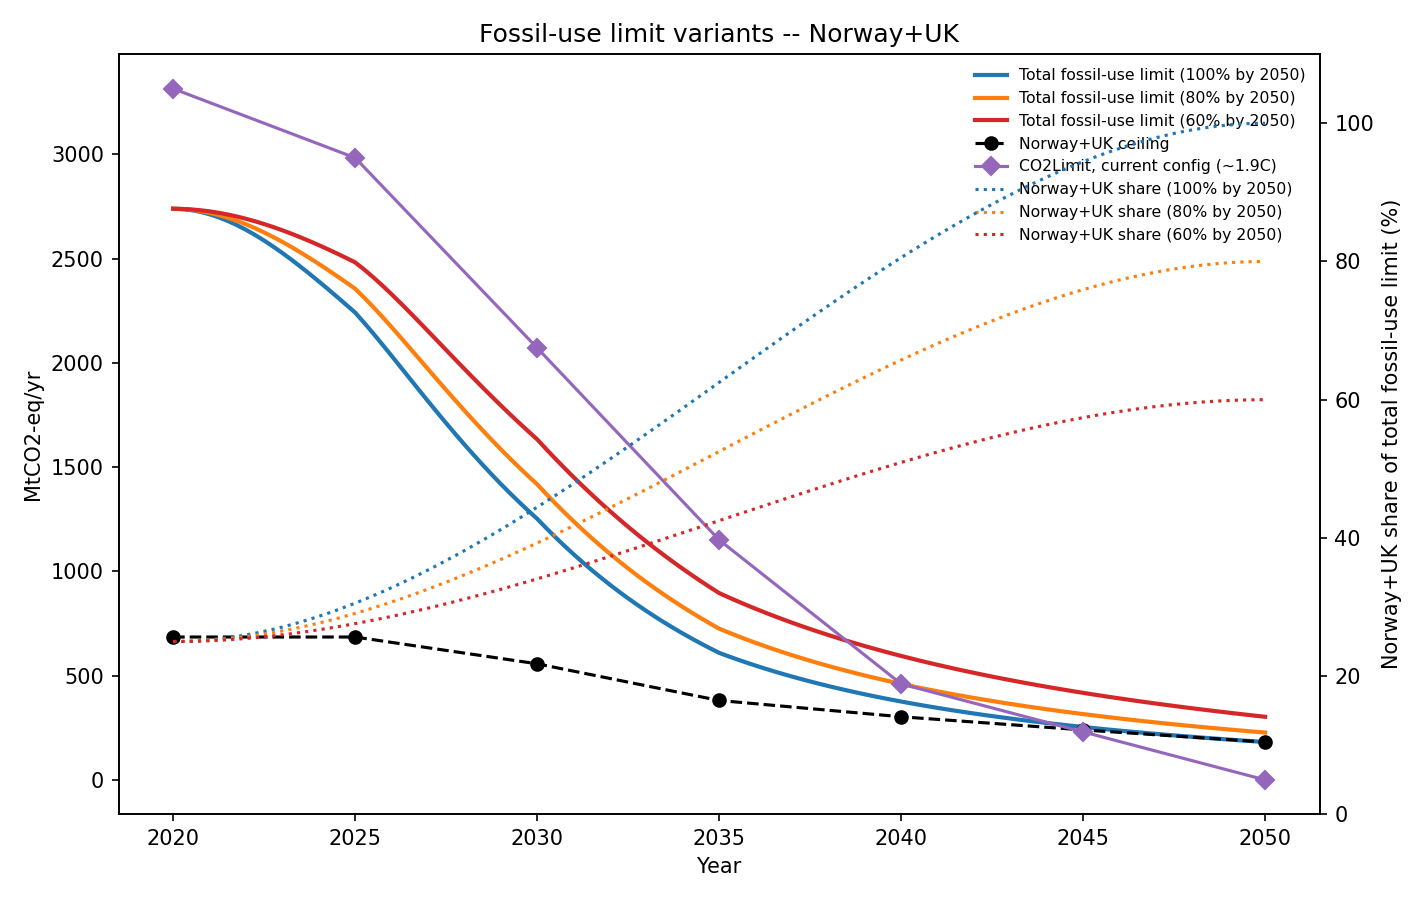
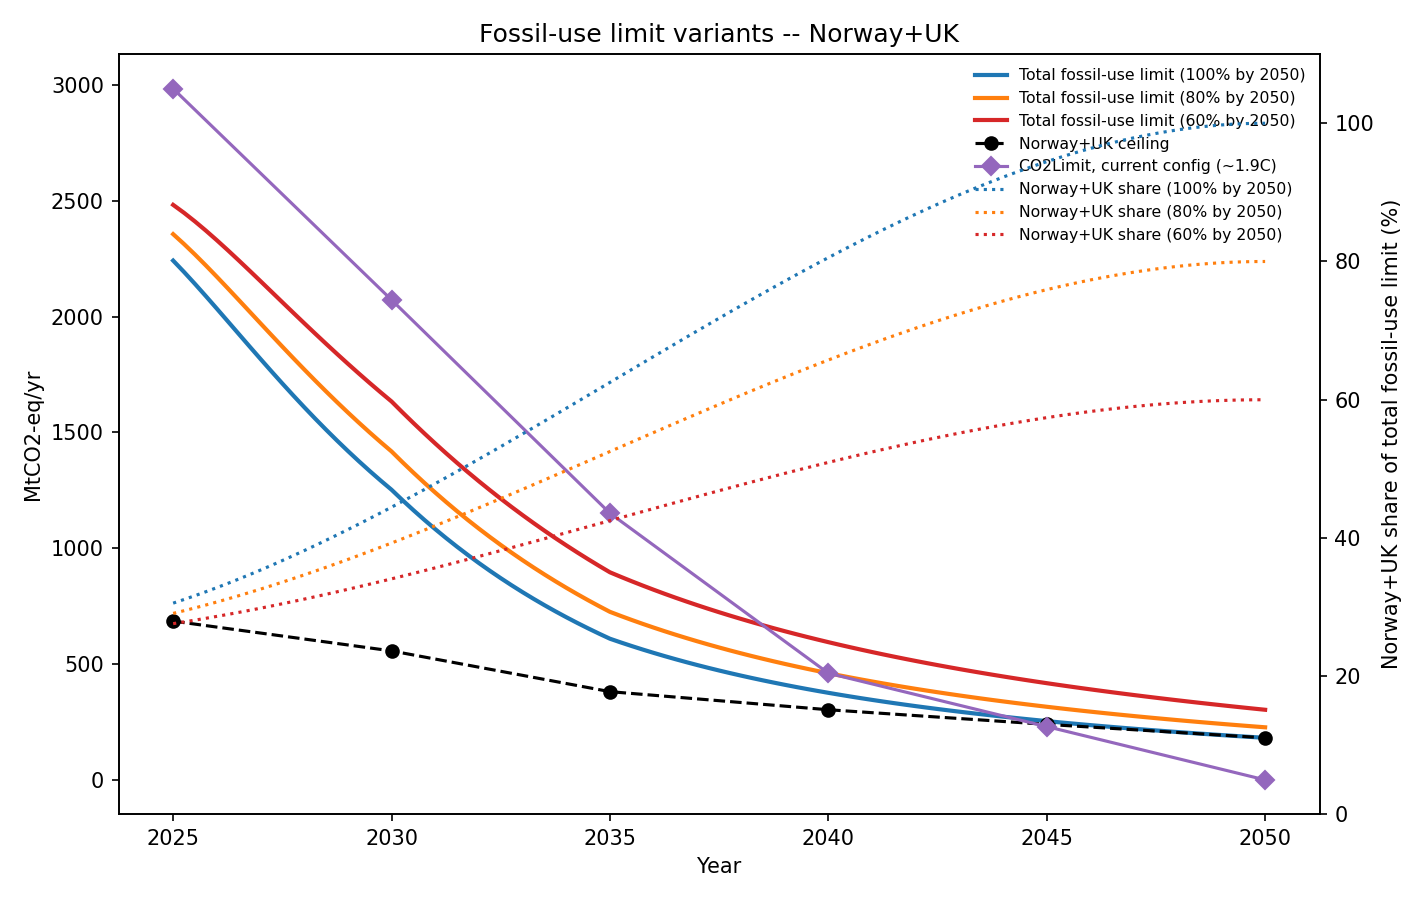
Drop 2020 from fossil-supply-security plots, start display at 2025
2020 stays as the internal share-curve anchor (ceiling_fn(2020) still
computes share_2020), but is no longer a displayed x-value: the security
curves, CO2Limit markers, and mix-breakdown bars now run 2025-2050 only,
consistent with Section 3.1's caveat that this config's 2020 CO2Limit
checkpoint isn't independently validated against an official target the
way 2030 is, and that these are the years the myopic runs actually solve.

Claude-Session: https://claude.ai/code/session_01KkHwmFFdgK5T1XFbFHA5SA

diff --git a/text_docs/scripts/build_fossil_supply_security.py b/text_docs/scripts/build_fossil_supply_security.py
@@ -26,8 +26,14 @@ import matplotlib.pyplot as plt
 
 out_dir = sys.argv[1] if len(sys.argv) > 1 else "."
 
-YEARS = [2020, 2025, 2030, 2035, 2040, 2045, 2050]
-years_fine = np.linspace(2020, 2050, 121)
+# 2020 is still used internally as the share-curve's anchor point (real
+# Eurostat actual, see ANCHOR_2020_MTCO2 below) -- Section 3.1's caveat
+# means it's not a great *displayed* reference year (this model's own
+# CO2Limit(2020) checkpoint isn't independently validated the way 2030 is),
+# so plots/tables now start at 2025, the first year these myopic runs
+# actually solve.
+YEARS = [2025, 2030, 2035, 2040, 2045, 2050]
+years_fine = np.linspace(2025, 2050, 101)
 
 # ---------------------------------------------------------------------------
 # Historical anchor: GENUINE 2020 actual, Eurostat Complete Energy Balances
@@ -134,7 +140,7 @@ def build_variant(name, ceiling_fn, mix_components, out_prefix):
     """ceiling_fn(year) -> MtCO2-eq; mix_components: dict label -> fn(year)."""
     ceiling = {y: ceiling_fn(y) for y in YEARS}
     anchor = ANCHOR_2020_MTCO2
-    share_2020 = ceiling[2020] / anchor
+    share_2020 = ceiling_fn(2020) / anchor  # still the curve's anchor point, just not displayed
 
     def share_curve(year, target):
         x = (year - 2020) / 30
@@ -155,7 +161,8 @@ def build_variant(name, ceiling_fn, mix_components, out_prefix):
     ceiling_years = sorted(ceiling)
     ax1.plot(ceiling_years, [ceiling[y] for y in ceiling_years], "o--", color="black", lw=1.5,
               label=f"{name} ceiling")
-    ax1.plot(list(CO2LIMIT_1P9C), list(CO2LIMIT_1P9C.values()), "D-", color="tab:purple",
+    co2limit_shown = {y: v for y, v in CO2LIMIT_1P9C.items() if y in YEARS}
+    ax1.plot(list(co2limit_shown), list(co2limit_shown.values()), "D-", color="tab:purple",
               lw=1.5, label="CO2Limit, current config (~1.9C)")
     ax1.set_xlabel("Year")
     ax1.set_ylabel("MtCO2-eq/yr")
@@ -170,7 +177,7 @@ def build_variant(name, ceiling_fn, mix_components, out_prefix):
     plt.close(fig)
 
     # --- 2050 mix breakdown ---
-    mix_years = [2020, 2050]
+    mix_years = [2025, 2050]
     colors = plt.get_cmap("tab10").colors
     fig, ax = plt.subplots(figsize=(7, 5))
     bottoms = np.zeros(len(mix_years))
@@ -185,12 +192,12 @@ def build_variant(name, ceiling_fn, mix_components, out_prefix):
     for xi in range(len(mix_years)):
         ax.text(xi, bottoms[xi] + 15, f"total: {bottoms[xi]:.0f}", ha="center", fontsize=9)
     ax.axhline(ANCHOR_2020_MTCO2, color="red", ls="--", lw=1)
-    ax.text(len(mix_years) - 0.3, ANCHOR_2020_MTCO2 + 15,
+    ax.text(len(mix_years) - 0.3, ANCHOR_2020_MTCO2 - 70,
              f"2020 actual total fossil use: {ANCHOR_2020_MTCO2:.0f}", color="red", fontsize=8, ha="right")
     ax.set_xticks(x)
     ax.set_xticklabels([str(y) for y in mix_years])
     ax.set_ylabel("MtCO2-eq/yr")
-    ax.set_title(f"European-safe fossil resource mix: 2020 vs. 2050 -- {name}")
+    ax.set_title(f"European-safe fossil resource mix: 2025 vs. 2050 -- {name}")
     ax.legend(loc="upper right", fontsize=9)
     fig.tight_layout()
     fig.savefig(f"{out_dir}/{out_prefix}_mix_2050.png", dpi=150)
